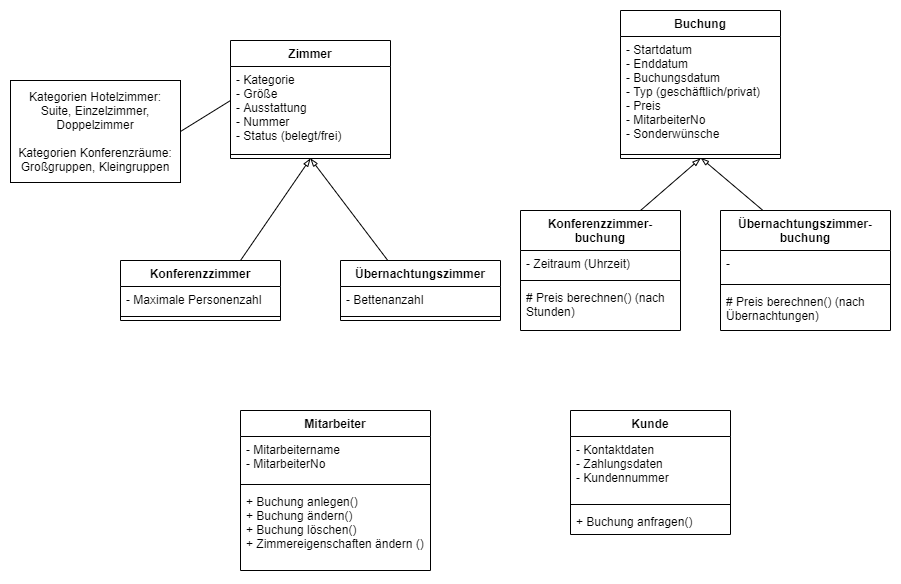
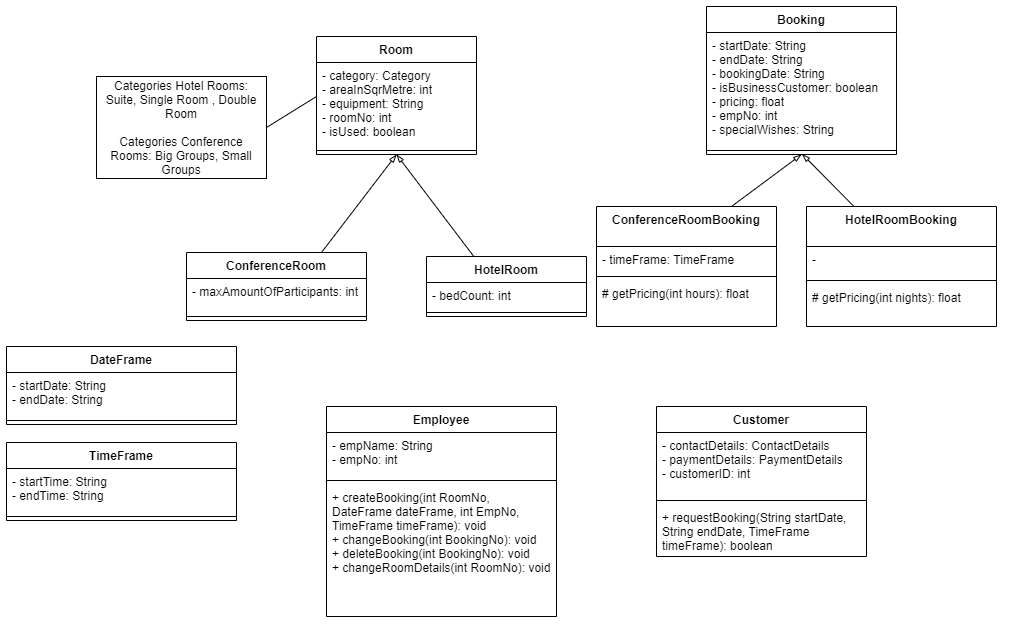
Variablen an Klein-/Großschreibungskonventionen angepasst TimeFrame und DateFrame hinzugefügt, um Zeiträumen und Datumsräume auszulagern Klassenübersicht übersetzt, Datentypen und Methodenargumente hinzugefügt Klassendiagramme für TimeFrame und DateFrame hinzugefügt

diff --git a/src/main/java/de/fourofakind/businesshotel/Employee.java b/src/main/java/de/fourofakind/businesshotel/Employee.java
@@ -2,7 +2,7 @@ package de.fourofakind.businesshotel;
 
 public class Employee
 {
-    public void createBooking(int RoomNo, String StartDate, String EndDate, int EmpNo, String TimeFrame)
+    public void createBooking(int RoomNo, DateFrame dateFrame, int EmpNo, TimeFrame timeFrame)
     {
 
     }
@@ -21,21 +21,21 @@ public class Employee
 
     public int getEmpNo()
     {
-        return EmpNo;
+        return empNo;
     }
 
-    public void setEmpNo(int EmpNo) {
-        this.EmpNo = EmpNo;
+    public void setEmpNo(int empNo) {
+        this.empNo = empNo;
     }
 
     public String getEmpName() {
-        return EmpName;
+        return empName;
     }
 
-    public void setEmpName(String EmpName) {
-        this.EmpName = EmpName;
+    public void setEmpName(String empName) {
+        this.empName = empName;
     }
 
-    private int EmpNo;
-    private String EmpName;
+    private int empNo;
+    private String empName;
 }

diff --git a/src/main/java/de/fourofakind/businesshotel/DateFrame.java b/src/main/java/de/fourofakind/businesshotel/DateFrame.java
@@ -1,0 +1,25 @@
+package de.fourofakind.businesshotel;
+
+public class DateFrame {
+
+
+    public String getStartDate() {
+        return startDate;
+    }
+
+    public void setStartDate(String startDate) {
+        this.startDate = startDate;
+    }
+
+    public String getEndDate() {
+        return endDate;
+    }
+
+    public void setEndDate(String endDate) {
+        this.endDate = endDate;
+    }
+
+
+    private String startDate;
+    private String endDate;
+}

diff --git a/src/main/java/de/fourofakind/businesshotel/TimeFrame.java b/src/main/java/de/fourofakind/businesshotel/TimeFrame.java
@@ -1,0 +1,25 @@
+package de.fourofakind.businesshotel;
+
+public class TimeFrame {
+
+
+
+    public String getStartTime() {
+        return startTime;
+    }
+
+    public void setStartTime(String startTime) {
+        this.startTime = startTime;
+    }
+
+    public String getEndTime() {
+        return endTime;
+    }
+
+    public void setEndTime(String endTime) {
+        this.endTime = endTime;
+    }
+
+    private String startTime;
+    private String endTime;
+}
